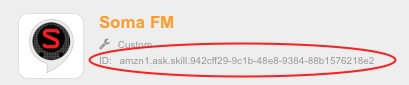
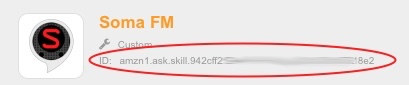
Uhhhh

diff --git a/js/constants.js b/js/constants.js
@@ -3,7 +3,7 @@
 module.exports = Object.freeze({
 
     // AppId from the developer portal.
-    appId : 'amzn1.ask.skill.942cff29-9c1b-48e8-9384-88b1576218e2',
+    appId : '',
 
     //  DynamoDB Table name for saving user state
     dynamoDBTableName : 'AlexaSomaFM',
